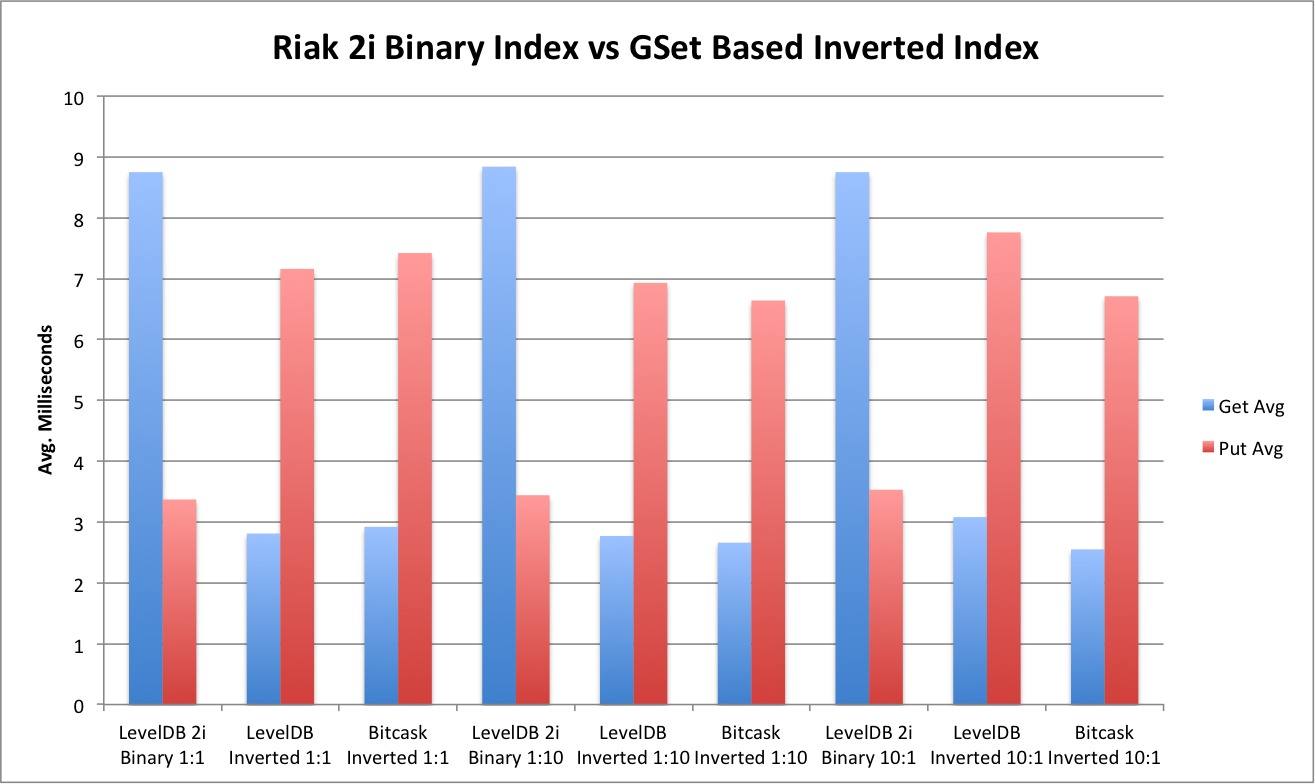
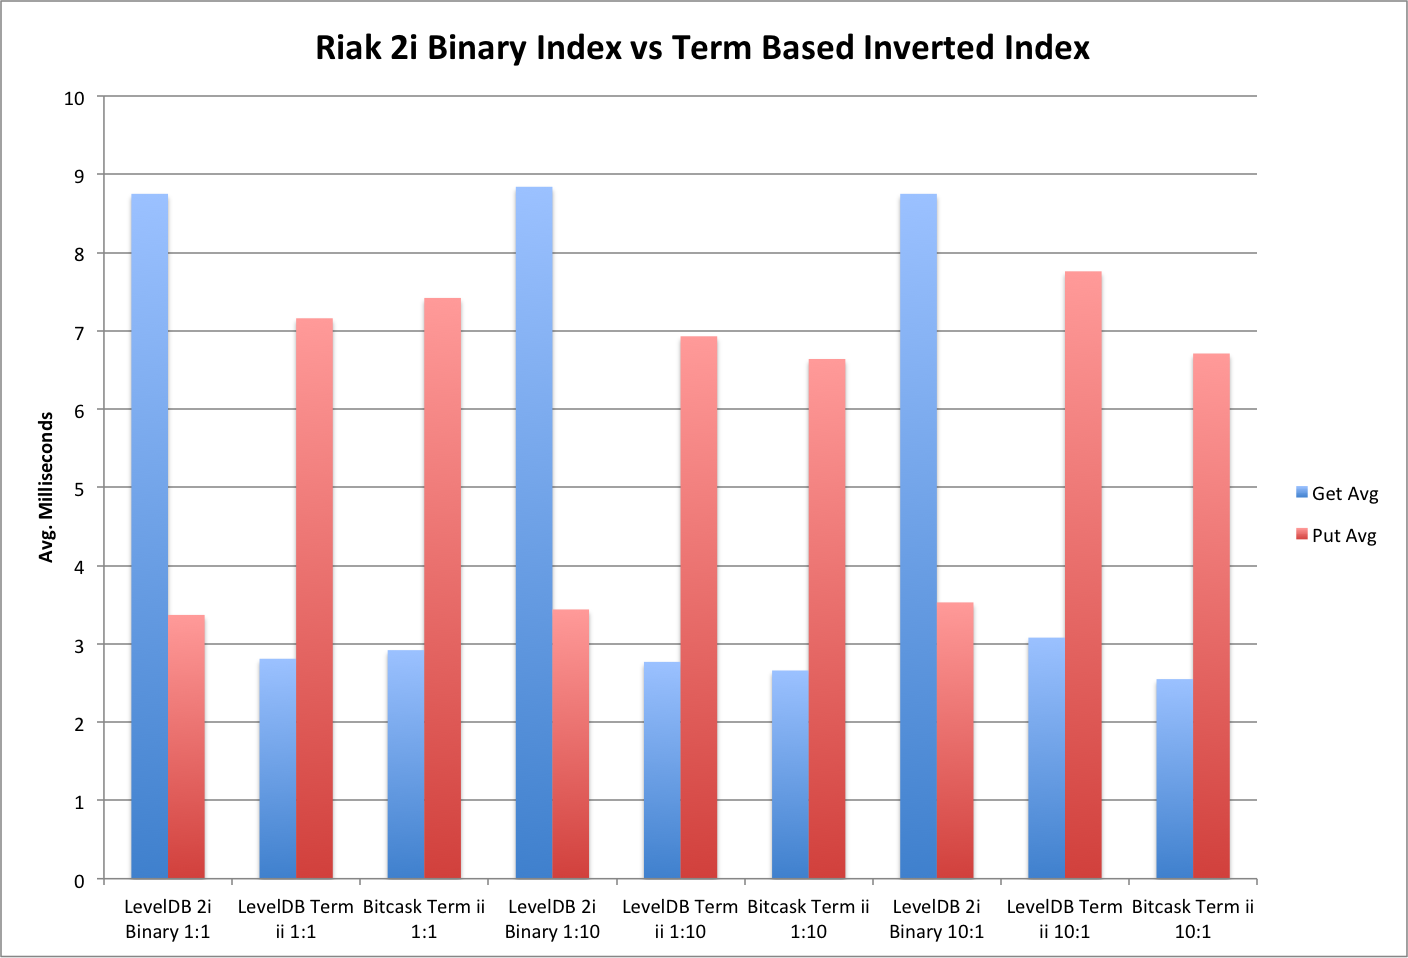
New Graph. Liberal sprinkling of the phrase Term Based

diff --git a/blog.md b/blog.md
@@ -1,48 +1,53 @@
-# Inverted Indexes/Indices for Riak
+# Term Based Inverted Indexes/Indices for Riak
 
-### What is an Inverted Index?
+### What is a Term Based Inverted Index?
 
-In the context of Riak, an index is a term that you can query on which references the keys of other Riak Objects.  Riak already has something called Secondary Indexes but they're only available when using the LevelDB backend.  An Inverted index is simply a Riak Object where the Key is the index term and the value is a serialized list of keys.
+In the context of Riak, an index is a term that you can query on which references the keys of other Riak Objects.  Riak already has something called Secondary Indexes but they're only available when using the LevelDB backend.  A Term Based Inverted Index is simply a Riak Object where the Key is the index term and the value is a serialized list of keys.
 
-### Why use an Inverted Index instead of Riak's built in Secondary Indexes or storing a key?
+### Why use a Term Based Inverted Index instead of Riak's built in Secondary Indexes or storing a key?
 
 #### Pros:  
 
-- Inverted Index key retrievals are faster than Secondary Index lookups.
-- Inverted Indexes can be implemented on any backend, including Bitcask and Memory, but Secondary Indexes can only be used with the LevelDB backend.
+- Term Based Inverted Index key retrievals are faster than Secondary Index lookups.
+- Term Based Inverted Indexes can be implemented on any backend, including Bitcask and Memory, but Secondary Indexes can only be used with the LevelDB backend.
 - Use of siblings and sibling resolution is accepted as the correct way to handle issues surrounding distributed data storage.  See Aphyr's Call Me Maybe (1) series of blog posts for a thorough discussion of issues.
-- Since this implementation of an Inverted Index is built on top of a CRDT (2), the sibling resolution strategy is deterministic and built into the implementation.
-- 2i queries involved a coverage query against all nodes which may hold the index (the n value of your bucket/object). This overhead increases query latency and the situation exacerbates itself when the ring size of the cluster is increased since the number of nodes which could possibly hold your data increases.  Retrieval of a Term-based Inverted Index only involves a get operation that doesn't have the same overhead drawbacks as 2i.
-- Ideal for read-heavy applications since Inverted Index retrieval is simply an additional Riak Get operation.
+- Since this implementation of a Term Based Inverted Index is built on top of a CRDT (2), the sibling resolution strategy is deterministic and built into the implementation.
+- 2i queries involved a coverage query against all nodes which may hold the index (the n value of your bucket/object). This overhead increases query latency and the situation exacerbates itself when the ring size of the cluster is increased since the number of nodes which could possibly hold your data increases.  Retrieval of a Term Based Inverted Index only involves a get operation that doesn't have the same overhead drawbacks as 2i.
+- Ideal for read-heavy applications since Term Based Inverted Index retrieval is simply an additional Riak Get operation.
 
 #### Cons: 
 
 - Indexes could potentially grow to very large sizes, necessitating index partitioning which adds to implementation complexity and total operation count.
 - In this basic implementation, siblings are only merged when an index retrieval operation takes place. Low cardinality in the index term-space results in a potentially large number of siblings between reads which will cause a high latency when a read does eventually occur.
-- 2i allows for some basic searching (integer ranges, binary partial, exact match) and a few built in Map/Reduce facilities.  Our implemenation for Inverted Index offers nothing but exact match searching.  A viable strategy that incorporates Inverted Indexes would be to create partial term indexes which point to the terms of other indexes.  An example would be City_3 (containing the first 3 letters of a City, State combination) index which points to the City index, an index referring the values which have a particular City, State.
+- 2i allows for some basic searching (integer ranges, binary partial, exact match) and a few built in Map/Reduce facilities.  Our implemenation for Term Based Inverted Index offers nothing but exact match searching.  A viable strategy that incorporates Inverted Indexes would be to create partial term indexes which point to the terms of other indexes.  An example would be City_3 (containing the first 3 letters of a City, State combination) index which points to the City index, an index referring the values which have a particular City, State.
 - Less ideal for write heavy applications since for each index, and additional put operation is required so to store 1 Riak Object with 3 indexes, a total of 4 puts are required.
 
 
 ### Metrics:
 
-We wrote a basic ruby script to test creation and retrieval of 2i binary indexes and Inverted Indexes using 1:1, 10:1, and 1:10 Get:Put ratios against an 11 node Riak K/V cluster.  The cluster was cleared of data between each 10 minute run.  The index term was simply a sequential integer converted to a string and the index term for the index get operation was a randomly selected integer from the term-space that had already been written.
+We wrote a basic ruby script to test creation and retrieval of 2i binary indexes and Term Based Inverted Indexes using 1:1, 10:1, and 1:10 Get:Put ratios against an 11 node Riak K/V cluster.  The cluster was cleared of data between each 10 minute run.  One index per Riak Object was applied.  The index term was simply a sequential integer converted to a string and the index term for the index get operation was a randomly selected integer from the term-space that had already been written.
 
-Overall, our expecations were fulfilled.  An Inverted Index retrieval is faster than a 2i retrieval and a 2i store is faster than a Inverted Index store.
+Overall, our expecations were fulfilled.  Term Based Inverted Index retrieval is faster than a 2i retrieval and a 2i store is faster than a Inverted Index store.
 
 ![image](blog_resources/BenchMetrics.png)
+
+The lower latency of a term-based inverted index retrieval is even more compelling when a read heavy load is considered.  Likewise, the write throughput bias in Riak 2i is shown.
+
+![image](blog_resources/BenchMetricsOpsSec.png
+)
 
 ### Potential Use Cases:
 
 - Reference all orders belonging to a customer
 - Save the users who liked something or the things that a user liked.
 - Tag content in a Content Management System
-- Store a Geo Hash of a specific length for fast geographic lookup/filtering without expensive Geospatial operations
-- Reference for time series data where all observations collected within a time-frame are referenced in this particular index.
+- Store a GeoHash of a specific length for fast geographic lookup/filtering without expensive Geospatial operations
+- Time series data where all observations collected within a time-frame are referenced in a particular index.
 
 
 ### Implementation:
 
-We implemented our Inverted Index as a CRDT G-Set (Grow only Set) and added the index logic into Riak Ruby Client (3) so that adding an Inverted Index is as easy as adding a 2i i.e., {INDEX_NAME}\_bin for a binary 2i and {INDEX_NAME}\_inv for an inverted index.
+We implemented our Term Based Inverted Index as a CRDT G-Set (Grow only Set) and added the index logic into Riak Ruby Client (3) so that adding a Term Based Inverted Index is as easy as adding a 2i i.e., {INDEX_NAME}\_bin for a binary 2i and {INDEX_NAME}\_inv for an inverted index. Our implemenation also relies on the sibling semantics present within Riak.
 
 In the Ruby Client, the InvertedIndex class (4) handles bucket creation index put and get operations as well as sibling resolution.  The GSet class (5) has the actual CRDT GSet implementation which is just a thin facade on top of a Ruby Set data type with some serialization and merge provisions.  The only performance specific optimization that we made from the client defaults was to disable the Riak Object return when storing the index within Riak.  When the number of siblings accumulated during a data load, due to sibling resolution only taking place on an index retrieval, the index put operation time would increase since all siblings were being returned to the client. 
 
@@ -51,7 +56,7 @@ In the Ruby Client, the InvertedIndex class (4) handles bucket creation index pu
 
 - A Grow Only Set (G-Set) has no provision for deleting. Replacing the G-Set with another CRDT Set such as an Observed-Remove Set (OR-Set) would provide this capability.
 - This behavior could be potentially be built into Riak or as an Riak Core application deployed alongside Riak nodes to mitigate latency impact of sibling resolution taking place on the Riak Client side.
-- Optimize R, W, PR, PW, DW bucket and read/write settings for maximum throughput.
+- Optimize R, W, PR, PW, DW bucket settings for maximum throughput.
 
 ### Expansion:
 
@@ -62,9 +67,9 @@ In the Ruby Client, the InvertedIndex class (4) handles bucket creation index pu
 
 #### Zombies!
 
-The Zombie infestation has taken hold in the United States.  The CDC has collected first 1 million of the casualties and has enlisted your assistance loading the data into their Riak cluster and analyzing the results.
+The Zombie infestation has taken hold in the United States.  The CDC has collected first 1 million of the casualties and has enlisted our assistance loading the data into their Riak cluster and analyzing the results.
 
-To provide ground teams with fast access to the data we've developed a web application (6) and loaded the data into Riak using Inverted Indexes for both the Zip code and a GeoHash (7) for fast geographic lookups.
+To provide ground teams with fast access to the data we've developed a web application (6) and loaded the data into Riak using Term Based Inverted Indexes for both the Zip code and a GeoHash (7) for fast geographic lookups.
 
 ##### The application allows users to Search with Zip-code or click on the Map:
 ![image](blog_resources/ZombieSearch.png)
